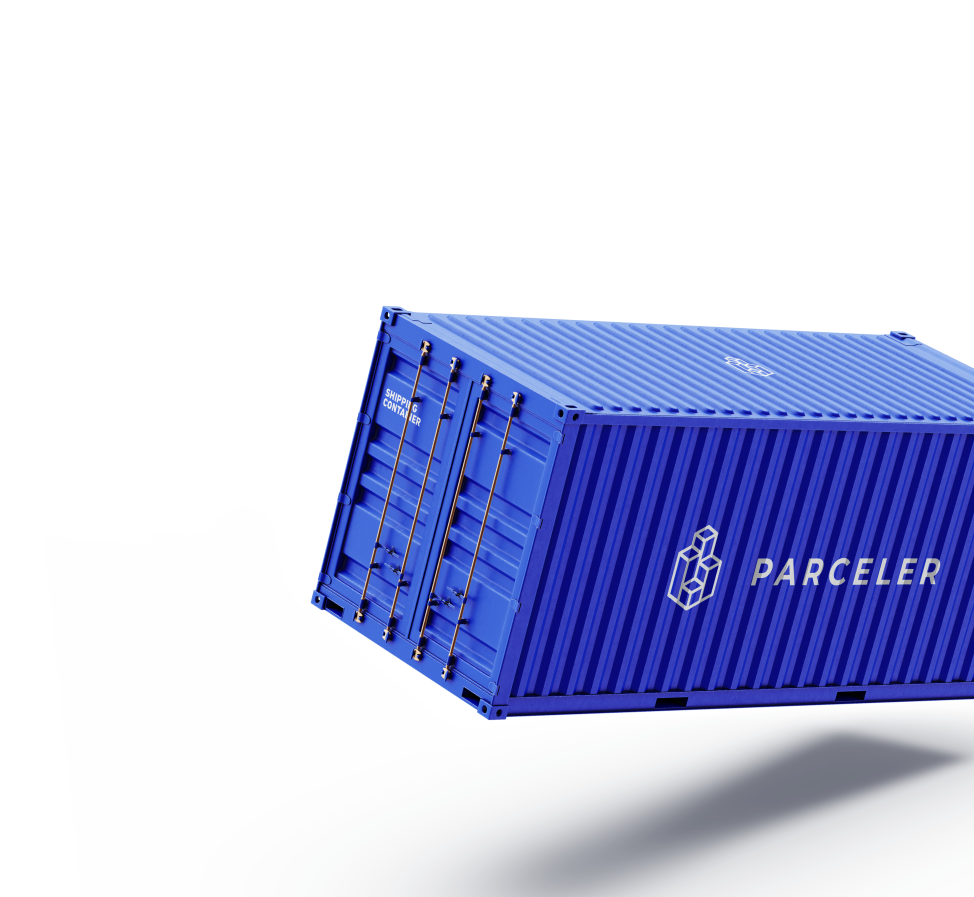
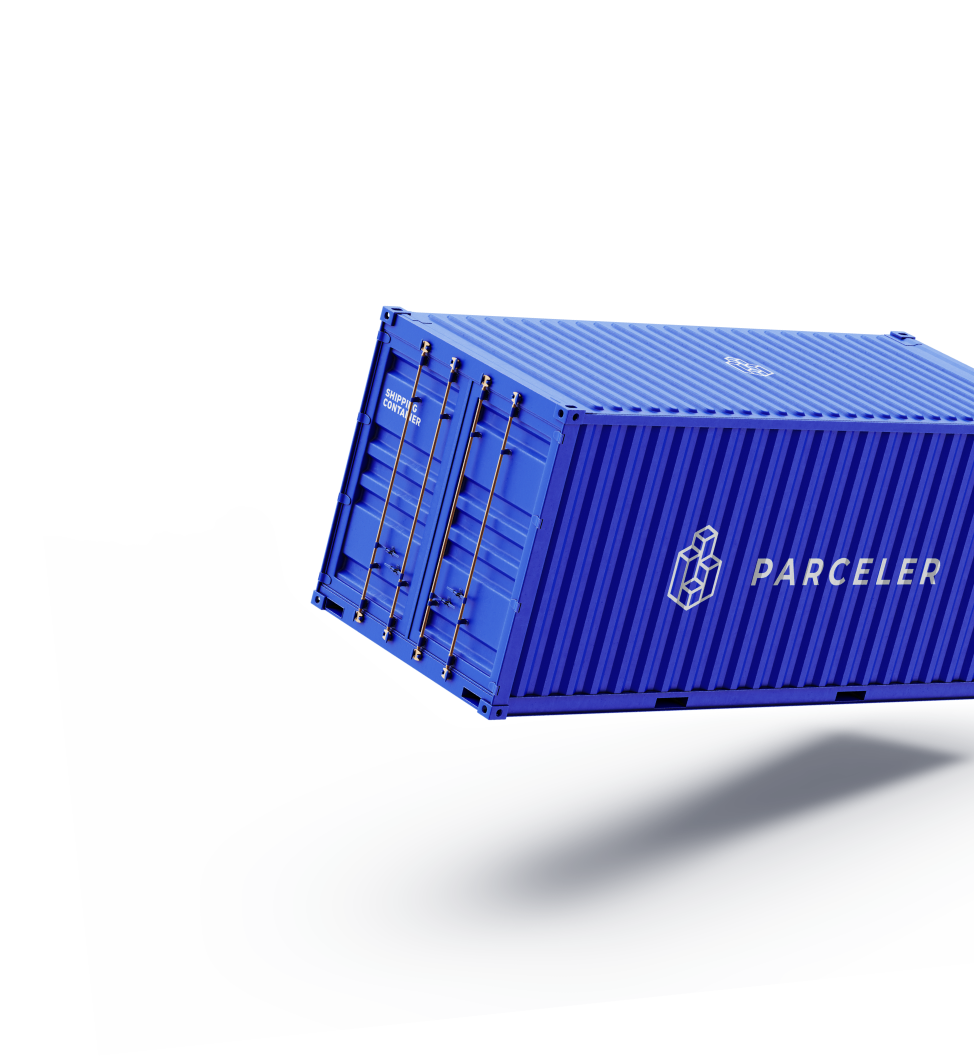
Home page background container shadow fix

diff --git a/DeliverySystem/src/constants.ts b/DeliverySystem/src/constants.ts
@@ -8,7 +8,7 @@ export const BACKGROUND_COLOR_GRADIENT: string =
   "linear-gradient(to bottom, #000000 0%, #071528 100%)";
 export const NO_REPEAT: string = "no-repeat";
 export const BACKGROUND_IMAGE_POSITION_DEFAULT: string = "left top";
-export const BACKGROUND_RIGHT: string = "right";
+export const BACKGROUND_RIGHT: string = "right top";
 export const BACKGROUND_LEFT: string = "left";
 export const BACKGROUND_TOP: string = "top";
 export const BACKGROUND_BOTTOM: string = "bottom";
